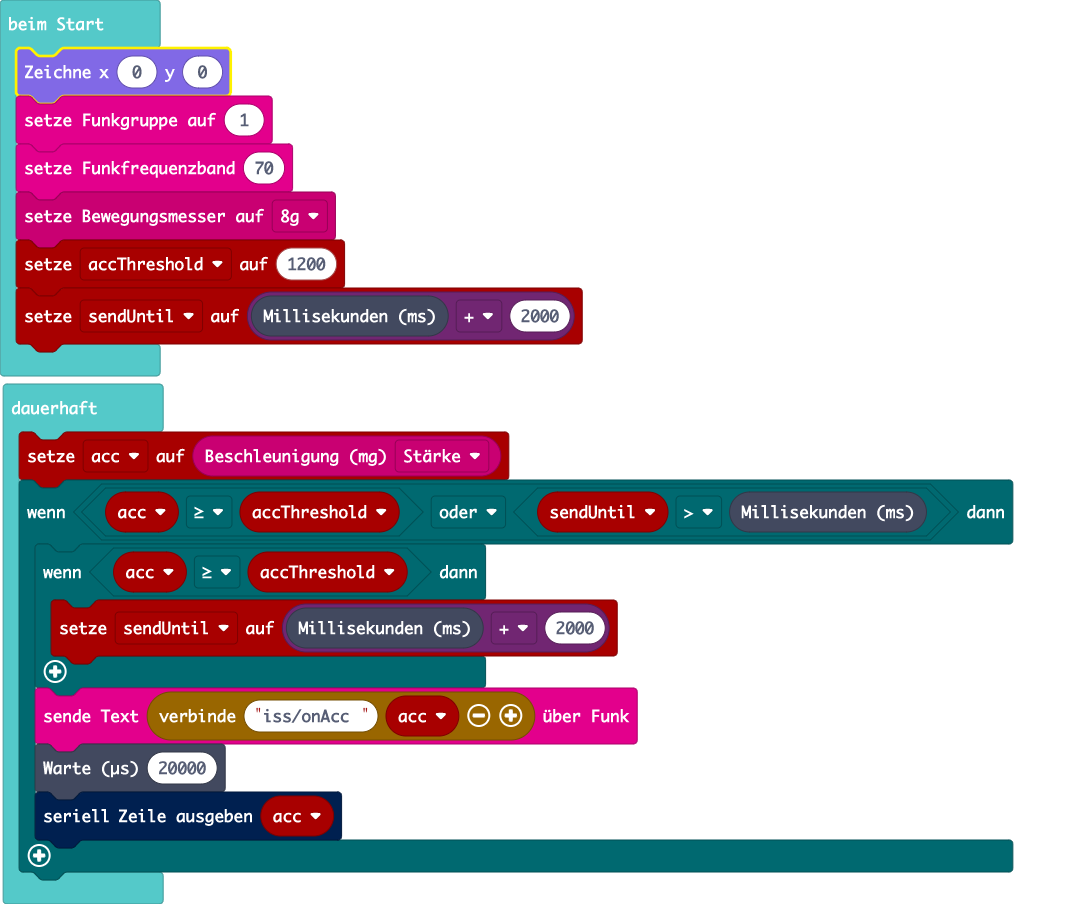
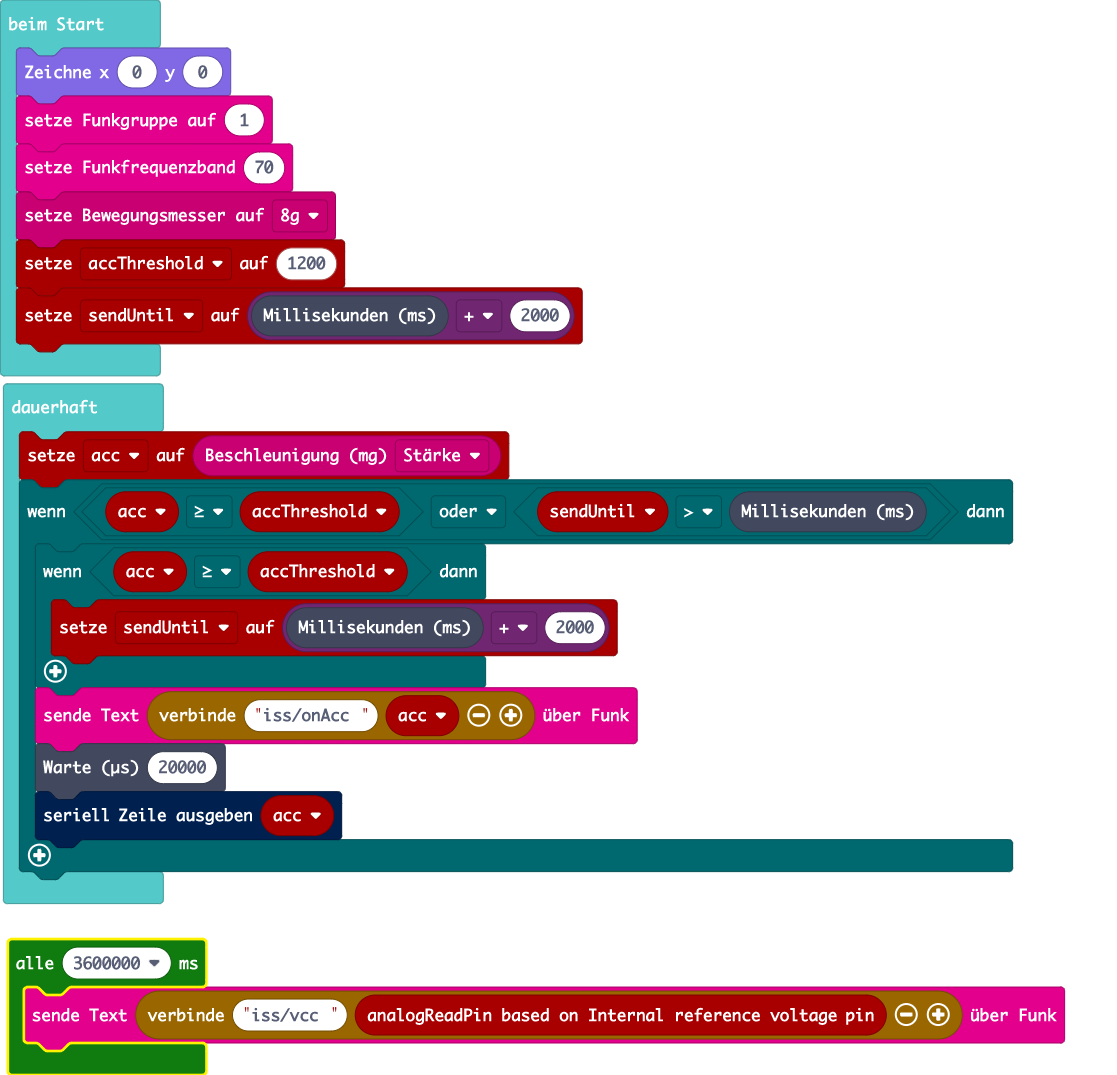
Send Vcc

diff --git a/main.ts b/main.ts
@@ -16,3 +16,6 @@ basic.forever(function () {
         serial.writeLine("" + (acc))
     }
 })
+loops.everyInterval(3600000, function () {
+    radio.sendString("iss/vcc " + pins.analogReadPinInternalRef())
+})
